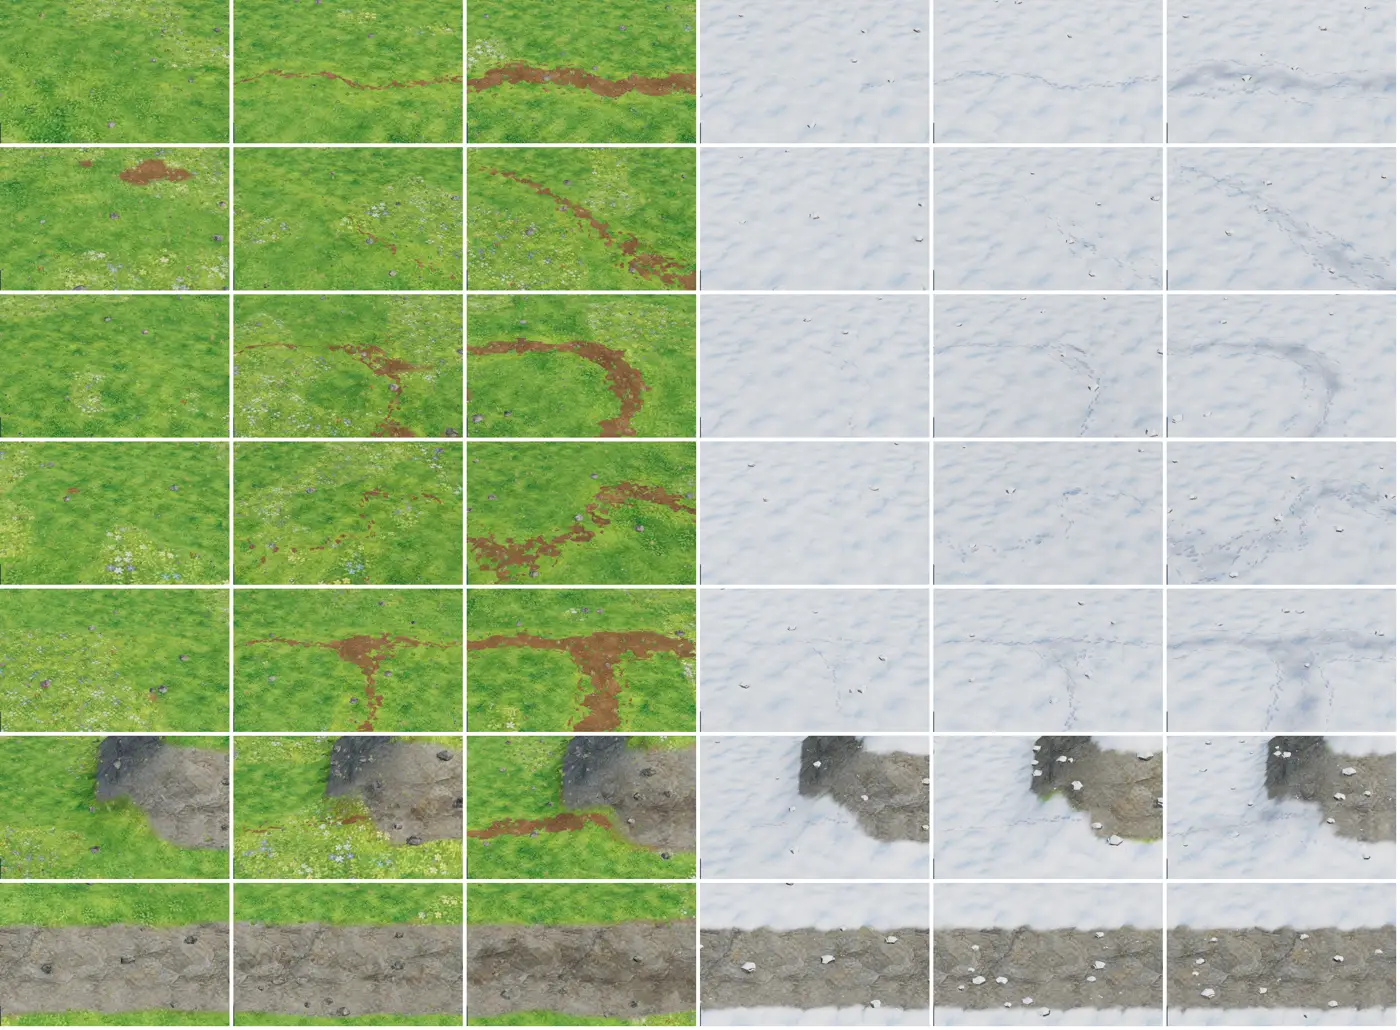
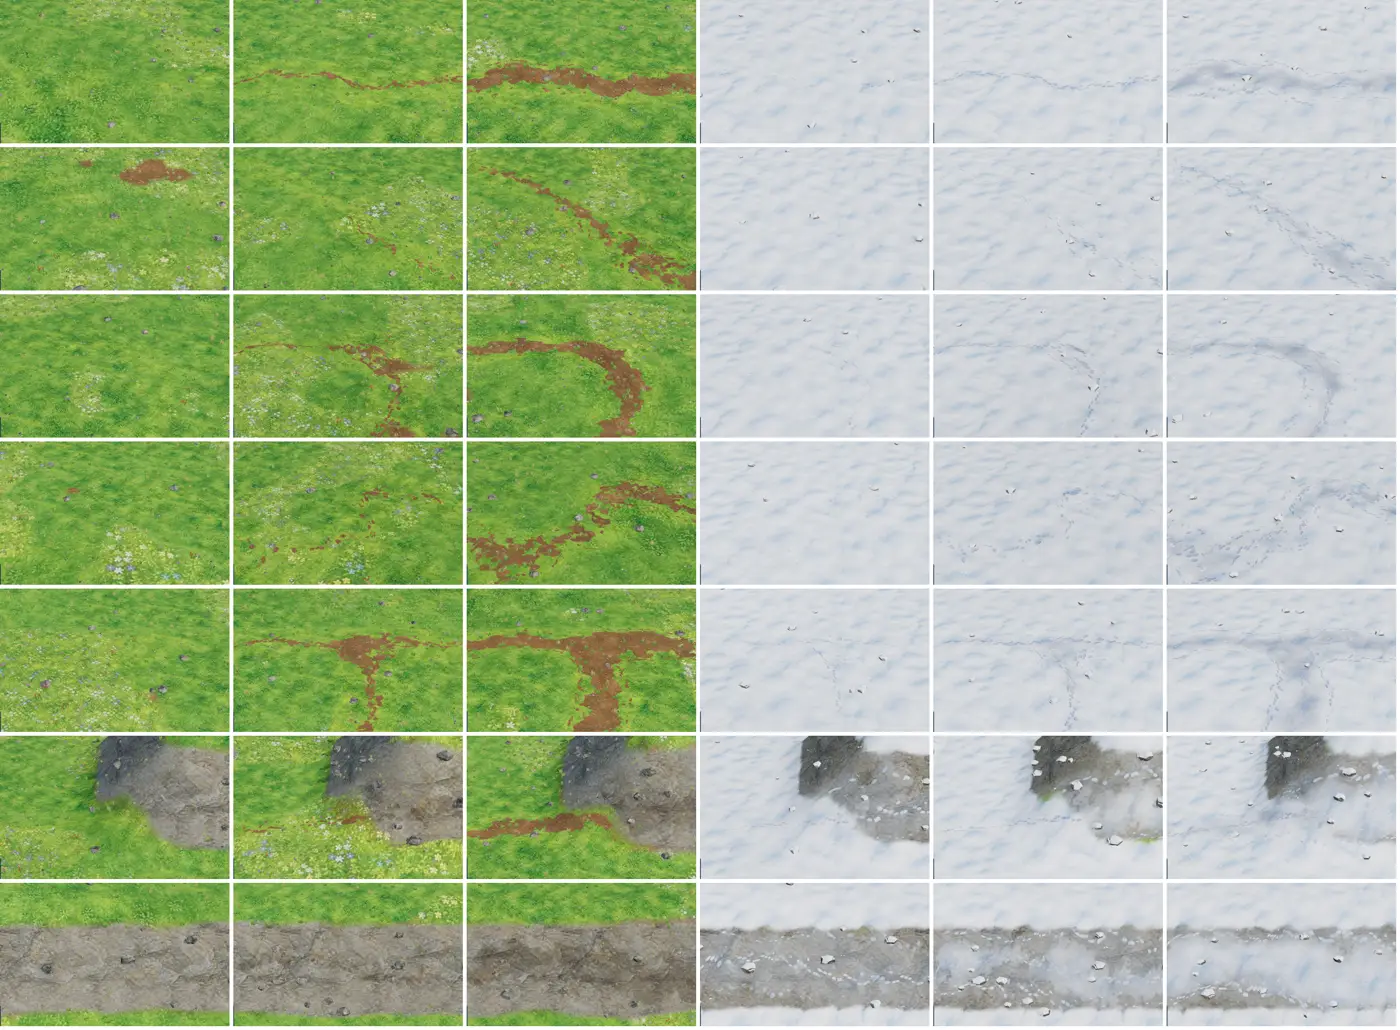
Winter: packed snow lane on bare rock where people walk
On rock without snow cover, a track now shows light, slightly bluish packed
snow with a ragged edge and footprints, clearer with the track strength
(light: prints and a dusting, medium: thin lane, full: clear narrow lane).
Summer rock rule and winter on snow are unchanged. Blog and rules updated.

Claude-Session: https://claude.ai/code/session_01EGQF1o9VK85vFQu2K95yRq

diff --git a/src/render/terrain.js b/src/render/terrain.js
@@ -608,6 +608,22 @@ if (uSnow > 0.5 && kTr > 0.001) {
   albedo = mix(albedo, cSnow * vec3(0.5, 0.56, 0.7), kPr.x * kPm * 0.85);
   albedo = mix(albedo, cSnow * vec3(0.3, 0.35, 0.47), kPr.y * kPm * 0.85);
   kH -= kPr.x * kPm * 0.25;
+  // On bare rock (steep ground, no snow cover): packed snow shows up exactly where everyone walks – a light, slightly
+  // bluish lane with a ragged edge, footprints in it; the stronger the track, the clearer and wider the lane
+  float kRk = (bA.w / bSum) * (1.0 - sMask);
+  if (kRk > 0.01) {
+    float kRn = (texture2D(tMacro, vWPos.xz * 0.37 + 0.2).g - 0.5) * 0.2 + (texture2D(tMacro, vWPos.xz * 1.1 + 0.6).b - 0.5) * 0.14;
+    // dusting along the prints from the first steps, a lane only from medium strength (relative to the ridge of the
+    // field, so it stays narrow); the frayed edge comes from the noise
+    float kRl = smoothstep(0.4, 0.52, kTrE + kRn) * (0.35 + 0.65 * smoothstep(0.45, 0.85, kTrE));
+    float kRd = smoothstep(0.17, 0.3, kTrE + kRn) * 0.16;
+    vec2 kRp = kSt > 0.2 ? kTrails(kRel, kDir, kSt, 0.2, 0.14, vec2(0.1, 0.05), 0.3) : vec2(0.0);
+    vec3 kPack = cSnow * vec3(0.9, 0.94, 1.0);
+    albedo = mix(albedo, kPack, max(kRl, kRd) * kRk * 0.9);
+    albedo = mix(albedo, kPack * vec3(0.82, 0.88, 0.98), kRp.x * kRk * smoothstep(0.16, 0.4, kTrE) * (1.0 - 0.7 * kRl));
+    albedo = mix(albedo, cSnow * vec3(0.5, 0.56, 0.7), kRp.y * kRk * smoothstep(0.16, 0.4, kTrE) * 0.6);
+    kH = mix(kH, kLum(cSnow) * 0.3, kRl * kRk * 0.7);
+  }
 }
 // Summer paths: a little darker where they are well trodden
 albedo *= 1.0 - kPath * smoothstep(0.7, 1.0, kTrE) * 0.12;

diff --git a/docs/SPIELREGELN.md b/docs/SPIELREGELN.md
@@ -566,7 +566,7 @@ Werte: `BALANCE.ground` (alle (A)).
   im Schnee (ein Feld, ein Weg, gleiche Kurven und Breite), nur das Material wechselt – schwach getreten: hellere,
   niedergelegte Halme entlang der Mitte; mittel: Erde schaut in Flecken entlang der Mitte durch; voll: schmaler Erdkern
   mit weichem Grasrand, etwa so breit wie die Schneespur. Diagonale Wege (Kacheln, die sich nur an der Ecke berühren)
-  sind so stark wie gerade. Die Erde ist nie sauber gezogen: Ränder fransen aus, der Weg bricht auf und hat Lücken und Flecken (ein sauberes Band sieht aufgemalt aus, ein ausgefranstes wie ausgetreten). Auf Fels (Gesteinsgewicht des Bodens) wird die Spur nie erdbraun, sondern nur dunkler und schmutziger. Prüfstand: `node scripts/tracks-bench.mjs` (fünf Formen × drei Stärken plus zwei Felsfälle, Sommer/Winter,
+  sind so stark wie gerade. Die Erde ist nie sauber gezogen: Ränder fransen aus, der Weg bricht auf und hat Lücken und Flecken (ein sauberes Band sieht aufgemalt aus, ein ausgefranstes wie ausgetreten). Auf Fels (Gesteinsgewicht des Bodens) wird die Spur im Sommer nie erdbraun, sondern nur dunkler und schmutziger; im Winter zeigt sich auf dem kahlen Fels festgetretener, leicht bläulicher Schnee genau dort, wo gelaufen wird (schwach: Fußabdrücke und ein Hauch, mittel: dünne Spur, voll: klare schmale Spur). Prüfstand: `node scripts/tracks-bench.mjs` (fünf Formen × drei Stärken plus zwei Felsfälle, Sommer/Winter,
   plus ein von Leibeigenen gelaufener Weg). Winter: Fußabdrücke in Laufrichtung, mit wachsender Stärke weitere Lagen (je Lage leicht gedreht und
   versetzt), bis sie zur festgetretenen, grauen Spur verschmelzen. Niedrige Grafikstufe: ein linearer statt des
   bikubischen Zugriffs. Nur soweit der Spieler die Kacheln sieht oder zuletzt gesehen hat. Taler und Christrosen liegen sichtbar auf

diff --git a/src/site/blog/posts/footpaths.de.md b/src/site/blog/posts/footpaths.de.md
@@ -63,7 +63,9 @@ Im Sommer gilt **dieselbe Geometrie** – nur das Material wechselt: schwach get
 schaut Erde in verstreuten Flecken entlang der Mitte durch, voll ausgetreten ist es überwiegend Erde mit weichem
 Grasrand. Die Erde ist dabei nie sauber gezogen: Rauschen in drei Größen fasert die Ränder aus und lässt Lücken und
 Flecken entstehen. Auf **Fels** wird die Spur nie erdbraun – dort wird der Stein nur dunkler und schmutziger; der
-Shader blendet die Erdfarbe mit dem Gesteinsgewicht des Bodens aus.
+Shader blendet die Erdfarbe mit dem Gesteinsgewicht des Bodens aus. Im Winter ist es umgekehrt: Auf kahlem Fels
+zeigt sich festgetretener Schnee genau dort, wo gelaufen wird – je stärker die Spur, desto klarer die helle, leicht
+bläuliche Bahn mit Fußabdrücken.
 
 ![Der Prüfstand: fünf Formen (gerade, diagonal, Knick, S-Kurve, Abzweig) und zwei Felsfälle in drei Stärken, links Sommer, rechts Winter – immer ein Weg, im Sommer wie im Schnee ähnlich breit, im Sommer aufgebrochen und ausgefranst.](blog/footpaths/bench.webp)
 

diff --git a/src/site/blog/posts/footpaths.en.md b/src/site/blog/posts/footpaths.en.md
@@ -62,7 +62,8 @@ In summer **the same geometry** applies – only the material changes: lightly t
 shows earth in scattered patches along the middle; fully worn it is mostly earth with a soft grass edge. The earth is
 never struck cleanly: noise on three scales frays the edges and leaves gaps and patches. On **rock** the track never
 turns earth-brown – the stone only gets darker and dirtier; the shader fades the earth colour out with the rock weight
-of the ground.
+of the ground. In winter it is the other way round: on bare rock packed snow shows up exactly where people walk – the
+stronger the track, the clearer the light, slightly bluish lane with footprints.
 
 ![The test bench: five shapes (straight, diagonal, bend, S-curve, junction) and two rock cases at three strengths, summer on the left, winter on the right – always one path, similarly wide in summer and in snow, broken up and frayed in summer.](blog/footpaths/bench.webp)
 
